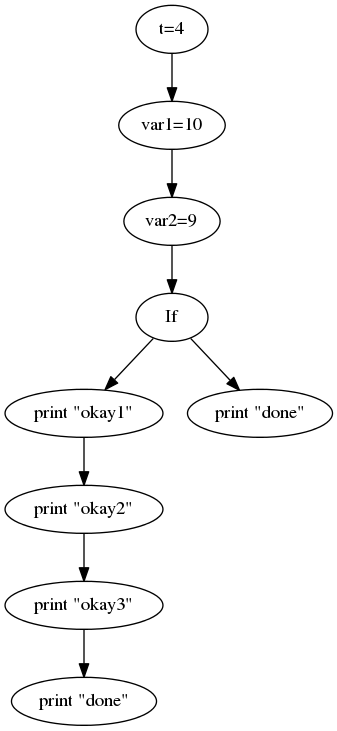
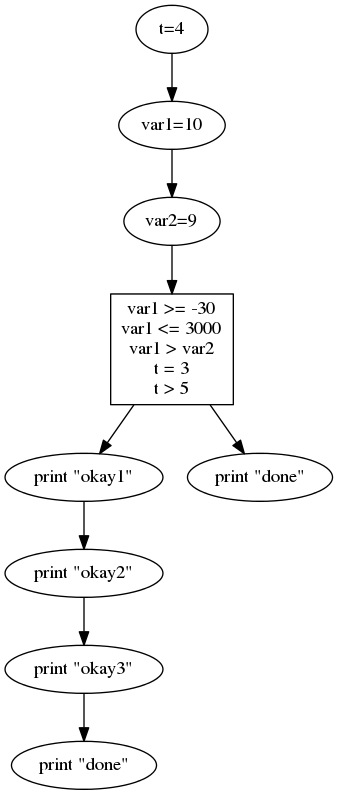
altered .gitignore and refactored code

Changed region(s): [[0.0, 0.0, 1.0, 0.8728], [0.0297, 0.9029, 0.4748, 1.0]]

diff --git a/symbolic-executor.py b/symbolic-executor.py
@@ -67,7 +67,7 @@ class SourceCodeDigraph:
                 were created first and referred to the parent which created the parent
                 before this point
             """
-            self.visual_digraph.get_node(node_id).attr['label'] = node_statement
+            self.visual_digraph.get_node(node_id).attr.update(label=node_statement, shape='box')
         except:
             #if node does not exist, then add it
             self.visual_digraph.add_node(node_id, label=node_statement)
@@ -119,6 +119,22 @@ class SourceCodeDigraph:
 
         return constraints
 
+    def flatten_constraints(self, constraints):
+        """
+            param constraints: list
+        """
+        output_string = ""
+        for constraint in constraints:
+            for index, content in enumerate(constraint):
+
+                if index == 1:
+                    #this is so the constraints will have padding around it
+                    output_string += " {0} ".format(str(content))
+                else:
+                    output_string += str(content)
+
+            output_string += "\n"
+        return output_string
 
     def return_node_and_all_its_children(self, this_index, this_body, parent_index = None, parent_body = None, parent_node_id = 0):
         """
@@ -145,7 +161,7 @@ class SourceCodeDigraph:
                 code adds statements inside if body
             """
             node_contraints = self.extract_constraints_from_conditionals(node.test.values)
-            node_statement = "If"
+            node_statement = self.flatten_constraints(node_contraints)
             node_children.append(self.return_node_and_all_its_children(0, node.body, this_index, this_body, node_id))
 
         #---------------------------------create node if needed
